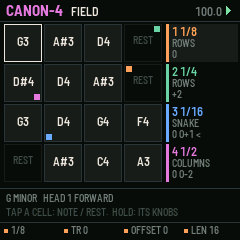
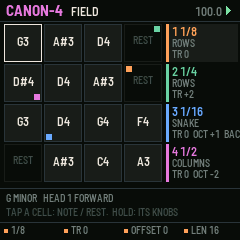
UI pass: held-button hints and clearer screens

diff --git a/app/ui.c b/app/ui.c
@@ -50,6 +50,10 @@ static const char *const CARD_TEXT[NB] = {
 #endif
 };
 
+static const char *const HINTS[NB] = {
+    [B_GLO] = "BLACK 1-4: MUTE HEADS  TAP: SETUP", [B_SEL] = "PRESETS: SCALE  SELECT: ROOT",
+};
+
 static void dirty(void) { U.dirty = 1; }
 static head_t *hd(void) { return &P.head[U.head % NHEAD]; }
 static cell_t *cel(void) { return &P.cell[U.cell % NCELL]; }
@@ -388,17 +392,14 @@ static void draw_field(void)
         cv_text(x + 4, y, &FONT_XS, s, col);
         s_cpy(s, PATH_NM[hh->path % NPATH]);
         cv_text(x + 4, y + 13, &FONT_T, hh->muted ? "MUTED" : s, K_DIM);
-        s[0] = 0;
-        if (hh->transpose)
-            sgn_cat(s, hh->transpose);
-        else
-            s_cpy(s, "0");
+        s_cpy(s, "TR ");
+        sgn_cat(s, hh->transpose);
         if (hh->octave) {
-            s_cat(s, " O");
+            s_cat(s, "  OCT ");
             sgn_cat(s, hh->octave);
         }
         if (hh->dir != HD_FWD)
-            s_cat(s, hh->dir == HD_REV ? " <" : " <>");
+            s_cat(s, hh->dir == HD_REV ? "  BACK" : "  PING");
         cv_text(x + 4, y + 24, &FONT_T, s, K_DIM);
     }
 }
@@ -451,6 +452,7 @@ static void draw(void)
         i_cat(d, hd()->len);
         kit_knobs(RATE_NM[hd()->rate % NRATE], b, c, d, HEAD_C[U.head % NHEAD]);
     }
+    kit_hint(HINTS, ACCENT);
 }
 
 static void lights(void)

diff --git a/app/core/kit.c b/app/core/kit.c
@@ -262,6 +262,30 @@ static void kit_knobs(const char *a, const char *b, const char *c, const char *d
     cv_blit(0, 222);
 }
 
+/* while one button is held (a fifth of a second, before its card), the knob band says what it does now: the map
+ * of a held layer on the screen, so no combination has to be remembered. 1 when drawn (the app skips its knobs) */
+static int kit_hint(const char *const *hints, uint16_t accent)
+{
+    uint32_t i, now = plat_ms();
+    for (i = 0; i < NB; i++)
+        if (hints[i] && HELD(i) && now - K.bt0[i] >= 200u && K.card == NB && (K.btn & ~(1u << i)) == 0u) {
+            cv_begin(240, 18, accent);
+            cv_text(4, 2, &FONT_T, BTN_NM[i], K_BG);
+            cv_text(8 + text_w(&FONT_T, BTN_NM[i]), 2, &FONT_T, hints[i], K_BG);
+            cv_blit(0, 222);
+            return 1;
+        }
+    return 0;
+}
+static int kit_hint_due(const char *const *hints)      /* a frame should redraw for the hint to appear */
+{
+    uint32_t i, now = plat_ms();
+    for (i = 0; i < NB; i++)
+        if (hints[i] && HELD(i) && now - K.bt0[i] >= 200u && now - K.bt0[i] < 260u)
+            return 1;
+    return 0;
+}
+
 /* a value 0..max as a bar w wide (meters, levels) */
 static void bar(int32_t x, int32_t y, int32_t w, int32_t h, int32_t v, int32_t max, uint16_t c)
 {

diff --git a/app/app.c b/app/app.c
@@ -75,6 +75,8 @@ void app_frame(void)
     for (i = 0; i < 16u; i++)
         if (heard[i])
             heard[i]--;
+    if (kit_hint_due(HINTS))
+        K.redraw = 1;
     lights();
     if (K.redraw) {
         K.redraw = 0;
